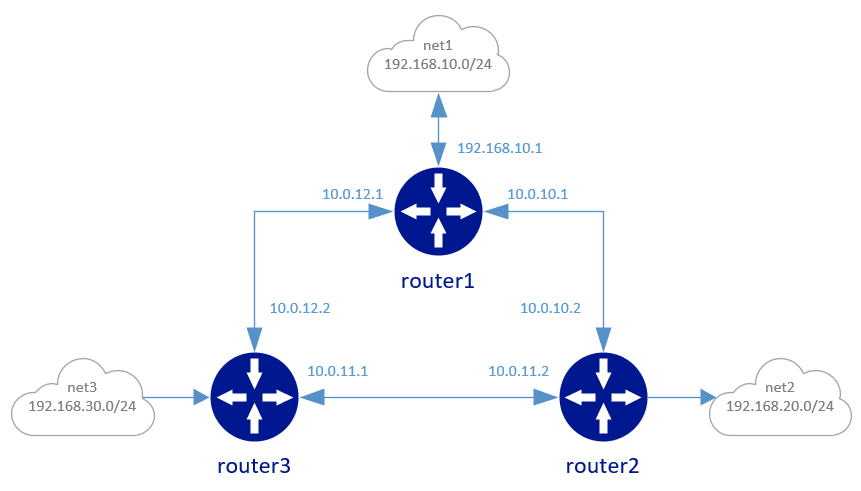
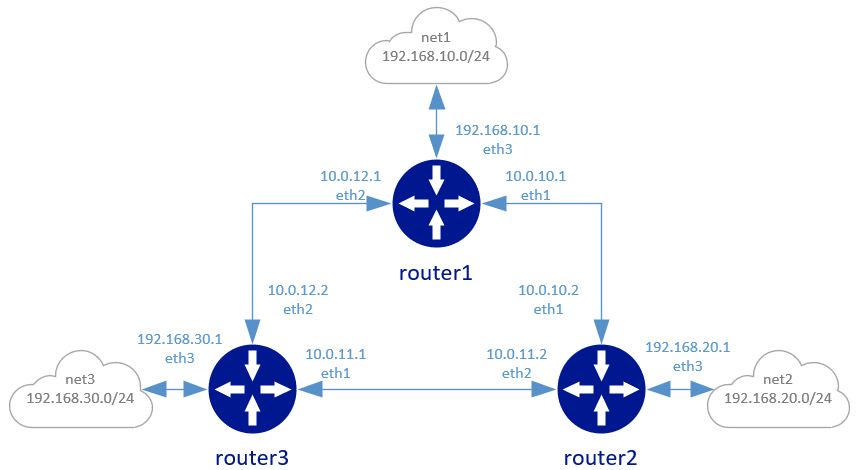
README

diff --git a/README.md b/README.md
@@ -3,7 +3,7 @@
 
 # **Prerequisite**
 - Host OS: Debian 12.0.0
-- Guest OS: CentOS 8.4
+- Guest OS: CentOS 7.8.2003
 - VirtualBox: 6.1.40
 - Vagrant: 2.3.2
 - Ansible: 2.13.4
@@ -18,7 +18,286 @@
 
 # **Выполнение**
 
+Развёрнуты машины по схеме:
+![Screenshot](https://github.com/jimidini77/otus-linux-day32/blob/main/net.png?raw=true)
 
+На все машины подключен репозиторий FRR, установлены FRR и пакеты сетевых утилит:
+```yml
+    - name: Install FRR RPM repo
+      yum:
+        name: https://rpm.frrouting.org/repo/frr-stable-repo-1-0.el7.noarch.rpm
+        state: present
+        validate_certs: no
+
+    - name: install base tools
+      yum:
+        name:
+          - traceroute
+          - tcpdump
+          - net-tools
+          - frr 
+          - frr-pythontools
+        state: present
+        update_cache: true
+        validate_certs: no
+```
+
+На всех машинах разрешен форвардинг траффика, и отключена Reverse Path фильтрация на интерфейсах между маршрутизаторами:
+```yml
+    - name: Enable forwarding across routers
+      sysctl:
+        name: net.ipv4.conf.all.forwarding
+        value: '1'
+        state: present
+
+    - name: Enable Reverse Path Filtering across routers
+      sysctl:
+        name: "net.ipv4.conf.{{ item }}.rp_filter"
+        value: '0'
+        state: present
+      with_items:
+        - "eth1"
+        - "eth2"
+```
+Выполнено включение OSPF и конфигурирование демона
+```yml
+    - name: Enable ospfd
+      replace:
+        path: /etc/frr/daemons
+        regexp: '^ospfd=.*$'
+        replace: 'ospfd=yes'
+      notify: restart frr
+
+    - name: Copy frr config to router
+      template:
+        src: frr.conf
+        dest: /etc/frr/frr.conf
+        owner: frr
+        group: frr
+        mode: 0640
+      notify: restart frr
+```
+Конфиг каждой машины заполнен из шаблона:
+```yml
+frr version 8.1
+frr defaults traditional
+hostname {{ frr_hostname }}
+log syslog informational
+no ipv6 forwarding
+service integrated-vtysh-config
+!
+interface eth1
+description {{ eth1_description }}
+ip address {{ eth1_ip }}
+ip ospf mtu-ignore
+{% if ansible_hostname == 'router1' %}
+ip ospf cost 1000
+{% elif ansible_hostname == 'router2' and symmetric_routing == true %}
+ip ospf cost 1000
+{% else %}
+!ip ospf cost 45
+{% endif %}
+ip ospf hello-interval 10
+ip ospf dead-interval 30
+!
+interface eth2
+description {{ eth2_description }}
+ip address {{ eth2_ip }}
+ip ospf mtu-ignore
+!ip ospf cost 45
+ip ospf hello-interval 10
+ip ospf dead-interval 30
+!
+interface eth3
+description {{ eth3_description }}
+ip address {{ eth3_ip }}
+ip ospf mtu-ignore
+!ip ospf cost 45
+ip ospf hello-interval 10
+ip ospf dead-interval 30
+!
+router ospf
+router-id {{ router_id }}
+network {{ ospf_net_1 }} area 0
+network {{ ospf_net_2 }} area 0
+network {{ ospf_net_3 }} area 0
+neighbor {{ ospf_nb_1 }}
+neighbor {{ ospf_nb_2 }}
+!
+log file /var/log/frr/frr.log
+default-information originate always
+```
+
+После запуска FRR выполняется анонс сетей через OSPF:
+```sh
+[root@router1 vagrant]# ip r
+default via 10.0.2.2 dev eth0 proto dhcp metric 100
+10.0.2.0/24 dev eth0 proto kernel scope link src 10.0.2.15 metric 100
+10.0.10.0/30 dev eth1 proto kernel scope link src 10.0.10.1 metric 101
+10.0.11.0/30 proto 188 metric 20
+        nexthop via 10.0.10.2 dev eth1 weight 1
+        nexthop via 10.0.12.2 dev eth2 weight 1
+10.0.12.0/30 dev eth2 proto kernel scope link src 10.0.12.1 metric 102
+192.168.10.0/24 dev eth3 proto kernel scope link src 192.168.10.1 metric 103
+192.168.20.0/24 via 10.0.10.2 dev eth1 proto 188 metric 20
+192.168.30.0/24 via 10.0.12.2 dev eth2 proto 188 metric 20
+192.168.56.0/24 dev eth4 proto kernel scope link src 192.168.56.101 metric 104
+```
+Все сети доступны например с router1:
+```
+[root@router1 vagrant]# ping -c 2 192.168.10.1
+PING 192.168.10.1 (192.168.10.1) 56(84) bytes of data.
+64 bytes from 192.168.10.1: icmp_seq=1 ttl=64 time=0.026 ms
+64 bytes from 192.168.10.1: icmp_seq=2 ttl=64 time=0.079 ms
+
+--- 192.168.10.1 ping statistics ---
+2 packets transmitted, 2 received, 0% packet loss, time 1003ms
+rtt min/avg/max/mdev = 0.026/0.052/0.079/0.027 ms
+[root@router1 vagrant]# ping -c 2 192.168.20.1
+PING 192.168.20.1 (192.168.20.1) 56(84) bytes of data.
+64 bytes from 192.168.20.1: icmp_seq=1 ttl=64 time=0.312 ms
+64 bytes from 192.168.20.1: icmp_seq=2 ttl=64 time=1.21 ms
+
+--- 192.168.20.1 ping statistics ---
+2 packets transmitted, 2 received, 0% packet loss, time 1000ms
+rtt min/avg/max/mdev = 0.312/0.764/1.217/0.453 ms
+[root@router1 vagrant]# ping -c 2 192.168.30.1
+PING 192.168.30.1 (192.168.30.1) 56(84) bytes of data.
+64 bytes from 192.168.30.1: icmp_seq=1 ttl=64 time=0.476 ms
+64 bytes from 192.168.30.1: icmp_seq=2 ttl=64 time=0.821 ms
+
+--- 192.168.30.1 ping statistics ---
+2 packets transmitted, 2 received, 0% packet loss, time 1001ms
+rtt min/avg/max/mdev = 0.476/0.648/0.821/0.174 ms
+[root@router1 vagrant]# ping -c 2 10.0.10.1
+PING 10.0.10.1 (10.0.10.1) 56(84) bytes of data.
+64 bytes from 10.0.10.1: icmp_seq=1 ttl=64 time=0.024 ms
+64 bytes from 10.0.10.1: icmp_seq=2 ttl=64 time=0.043 ms
+
+--- 10.0.10.1 ping statistics ---
+2 packets transmitted, 2 received, 0% packet loss, time 999ms
+rtt min/avg/max/mdev = 0.024/0.033/0.043/0.011 ms
+[root@router1 vagrant]# ping -c 2 10.0.11.1
+PING 10.0.11.1 (10.0.11.1) 56(84) bytes of data.
+64 bytes from 10.0.11.1: icmp_seq=1 ttl=63 time=0.676 ms
+64 bytes from 10.0.11.1: icmp_seq=2 ttl=63 time=0.533 ms
+
+--- 10.0.11.1 ping statistics ---
+2 packets transmitted, 2 received, 0% packet loss, time 1001ms
+rtt min/avg/max/mdev = 0.533/0.604/0.676/0.075 ms
+[root@router1 vagrant]# ping -c 2 10.0.12.1
+PING 10.0.12.1 (10.0.12.1) 56(84) bytes of data.
+64 bytes from 10.0.12.1: icmp_seq=1 ttl=64 time=0.021 ms
+64 bytes from 10.0.12.1: icmp_seq=2 ttl=64 time=0.035 ms
+
+--- 10.0.12.1 ping statistics ---
+2 packets transmitted, 2 received, 0% packet loss, time 1000ms
+rtt min/avg/max/mdev = 0.021/0.028/0.035/0.007 ms
+```
+
+Если погасить один из интерфейсов трассировка идёт по другому маршруту:
+```
+[root@router1 vagrant]# traceroute 192.168.30.1
+traceroute to 192.168.30.1 (192.168.30.1), 30 hops max, 60 byte packets
+ 1  192.168.30.1 (192.168.30.1)  0.445 ms  0.464 ms  0.429 ms
+[root@router1 vagrant]#
+[root@router1 vagrant]#
+[root@router1 vagrant]# ifconfig eth2 down
+[root@router1 vagrant]#
+[root@router1 vagrant]#
+[root@router1 vagrant]# traceroute 192.168.30.1
+traceroute to 192.168.30.1 (192.168.30.1), 30 hops max, 60 byte packets
+ 1  10.0.10.2 (10.0.10.2)  0.478 ms  0.405 ms  0.273 ms
+ 2  192.168.30.1 (192.168.30.1)  0.772 ms  0.832 ms  0.780 ms
+``` 
+
+Маршруты из интерфейса `vtysh`:
+```
+[root@router1 vagrant]# vtysh
+
+Hello, this is FRRouting (version 8.3.1).
+Copyright 1996-2005 Kunihiro Ishiguro, et al.
+
+router1# sh ip route ospf
+Codes: K - kernel route, C - connected, S - static, R - RIP,
+       O - OSPF, I - IS-IS, B - BGP, E - EIGRP, N - NHRP,
+       T - Table, A - Babel, F - PBR, f - OpenFabric,
+       > - selected route, * - FIB route, q - queued, r - rejected, b - backup
+       t - trapped, o - offload failure
+
+O   10.0.10.0/30 [110/100] is directly connected, eth1, weight 1, 00:21:34
+O>* 10.0.11.0/30 [110/200] via 10.0.10.2, eth1, weight 1, 00:03:02
+O>* 10.0.12.0/30 [110/300] via 10.0.10.2, eth1, weight 1, 00:02:33
+O   192.168.10.0/24 [110/100] is directly connected, eth3, weight 1, 00:21:33
+O>* 192.168.20.0/24 [110/200] via 10.0.10.2, eth1, weight 1, 00:20:34
+O>* 192.168.30.0/24 [110/300] via 10.0.10.2, eth1, weight 1, 00:03:02
+```
+
+## Ассиметричная маршрутизация
+Если на `router1` изменить цену интерфейса `eth1`, смотрящего на `router2`,то маршрут к сети 192.168.20.0/24 изменится и пойдёт через `router3` т.е. `eth2`:
+```
+[root@router1 vagrant]# vtysh
+
+Hello, this is FRRouting (version 8.3.1).
+Copyright 1996-2005 Kunihiro Ishiguro, et al.
+
+router1# conf t
+router1(config)# int eth1
+router1(config-if)# ip ospf cost 1000
+router1(config-if)# exit
+router1(config)# exit
+router1# sh ip route ospf
+Codes: K - kernel route, C - connected, S - static, R - RIP,
+       O - OSPF, I - IS-IS, B - BGP, E - EIGRP, N - NHRP,
+       T - Table, A - Babel, F - PBR, f - OpenFabric,
+       > - selected route, * - FIB route, q - queued, r - rejected, b - backup
+       t - trapped, o - offload failure
+
+O   10.0.10.0/30 [110/300] via 10.0.12.2, eth2, weight 1, 00:00:19
+O>* 10.0.11.0/30 [110/200] via 10.0.12.2, eth2, weight 1, 00:00:19
+O   10.0.12.0/30 [110/100] is directly connected, eth2, weight 1, 00:02:55
+O   192.168.10.0/24 [110/100] is directly connected, eth3, weight 1, 00:29:20
+O>* 192.168.20.0/24 [110/300] via 10.0.12.2, eth2, weight 1, 00:00:19
+O>* 192.168.30.0/24 [110/200] via 10.0.12.2, eth2, weight 1, 00:02:55
+```
+При этом машрут со стороны `router2` к `router1` останется с прежней стоимостью:
+```
+[root@router2 vagrant]# vtysh
+
+Hello, this is FRRouting (version 8.3.1).
+Copyright 1996-2005 Kunihiro Ishiguro, et al.
+
+router2# sh ip route ospf
+Codes: K - kernel route, C - connected, S - static, R - RIP,
+       O - OSPF, I - IS-IS, B - BGP, E - EIGRP, N - NHRP,
+       T - Table, A - Babel, F - PBR, f - OpenFabric,
+       > - selected route, * - FIB route, q - queued, r - rejected, b - backup
+       t - trapped, o - offload failure
+
+O   10.0.10.0/30 [110/100] is directly connected, eth1, weight 1, 00:59:16
+O   10.0.11.0/30 [110/100] is directly connected, eth2, weight 1, 00:59:16
+O>* 10.0.12.0/30 [110/200] via 10.0.10.1, eth1, weight 1, 00:58:36
+  *                        via 10.0.11.1, eth2, weight 1, 00:58:36
+O>* 192.168.10.0/24 [110/200] via 10.0.10.1, eth1, weight 1, 00:58:41
+O   192.168.20.0/24 [110/100] is directly connected, eth3, weight 1, 00:59:16
+O>* 192.168.30.0/24 [110/200] via 10.0.11.1, eth2, weight 1, 00:58:36
+```
+
+Трассировка между `router1` и `router2` принимает вид:
+```
+[root@router1 vagrant]# traceroute 192.168.20.1
+traceroute to 192.168.20.1 (192.168.20.1), 30 hops max, 60 byte packets
+ 1  10.0.12.2 (10.0.12.2)  0.400 ms  0.243 ms  0.273 ms
+ 2  192.168.20.1 (192.168.20.1)  0.582 ms  0.654 ms  0.529 ms
+
+
+ [root@router2 vagrant]# traceroute 192.168.10.1
+traceroute to 192.168.10.1 (192.168.10.1), 30 hops max, 60 byte packets
+ 1  192.168.10.1 (192.168.10.1)  0.463 ms  0.389 ms  0.276 ms
+```
+То есть траффик идёт ассиметрично, а не используется тот же интерфейс, с котогого приходят пакеты от соседа. Для восстановления симметрии можно указать для `router2` цену интерфейса как у `router1`
+
+Переменная `symmetric_routing` прописана в `ansible/defaults/main.yml` при значении `true` цена на `router1` и `router2` будет одинаковая после выполнении плейбука, при значении `false` маршрутизация будет ассиметричная.
 
 # **Результаты**
 
